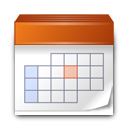
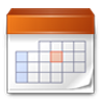
Busca Tabela Paciente

diff --git a/src/principal/AgendamentoGui.java b/src/principal/AgendamentoGui.java
@@ -9,6 +9,7 @@ package principal;
 import classes.Agendamento;
 import classes.DadoInvalidoException;
 import classes.Dentista;
+import classes.Paciente;
 import java.awt.Component;
 import java.awt.PopupMenu;
 import java.text.DateFormat;
@@ -19,6 +20,7 @@ import java.util.logging.Logger;
 import javax.swing.table.DefaultTableModel;
 import model.dao.AgendamentoDAO;
 import model.dao.DentistaDAO;
+import model.dao.PacienteDAO;
 
 
 /**
@@ -33,11 +35,28 @@ public class AgendamentoGui extends javax.swing.JFrame {
     public AgendamentoGui() throws DadoInvalidoException {
         initComponents();
         readDentista();
+        readPaciente();
     }
 
+    
+    public void readPaciente() throws DadoInvalidoException{
+        DefaultTableModel dtm = (DefaultTableModel) TabelaPaciente.getModel();
+        dtm.setNumRows(0);
+        PacienteDAO pdao = new PacienteDAO();
+        
+        for (Paciente p : pdao.read()) {
+            dtm.addRow(new Object[]{
+                p.getNome(),
+              });
+           
+        }
+        
+    }
+    
+    
     public void readDentista() throws DadoInvalidoException {
 
-        DefaultTableModel dtm = (DefaultTableModel) TabelaDentista.getModel();
+        DefaultTableModel dtm = (DefaultTableModel) TabelaDentista1.getModel();
         dtm.setNumRows(0);
         DentistaDAO ddao = new DentistaDAO();
         
@@ -49,6 +68,7 @@ public class AgendamentoGui extends javax.swing.JFrame {
         }
 
     }
+    
    
     
     
@@ -67,12 +87,15 @@ public class AgendamentoGui extends javax.swing.JFrame {
         txtHora = new javax.swing.JFormattedTextField();
         jLabel6 = new javax.swing.JLabel();
         jScrollPane2 = new javax.swing.JScrollPane();
-        TabelaDentista = new javax.swing.JTable();
+        TabelaPaciente = new javax.swing.JTable();
         jLabel7 = new javax.swing.JLabel();
         jLabel8 = new javax.swing.JLabel();
         txtEspecialidade = new javax.swing.JTextField();
         jButton1 = new javax.swing.JButton();
         jDateChooser1 = new com.toedter.calendar.JDateChooser();
+        jScrollPane3 = new javax.swing.JScrollPane();
+        TabelaDentista1 = new javax.swing.JTable();
+        jLabel9 = new javax.swing.JLabel();
 
         setDefaultCloseOperation(javax.swing.WindowConstants.DISPOSE_ON_CLOSE);
         setTitle("Agendamentos");
@@ -91,23 +114,23 @@ public class AgendamentoGui extends javax.swing.JFrame {
         jLabel3.setFont(new java.awt.Font("Tahoma", 1, 12)); // NOI18N
         jLabel3.setText("Dentista:");
         getContentPane().add(jLabel3);
-        jLabel3.setBounds(60, 170, 70, 20);
+        jLabel3.setBounds(50, 170, 70, 20);
 
         jLabel4.setFont(new java.awt.Font("Tahoma", 1, 12)); // NOI18N
         jLabel4.setText("Data:");
         getContentPane().add(jLabel4);
-        jLabel4.setBounds(160, 220, 50, 20);
+        jLabel4.setBounds(230, 230, 50, 20);
 
         jLabel5.setFont(new java.awt.Font("Tahoma", 1, 12)); // NOI18N
         jLabel5.setText("Hora:");
         getContentPane().add(jLabel5);
-        jLabel5.setBounds(400, 230, 50, 15);
+        jLabel5.setBounds(430, 230, 50, 15);
         getContentPane().add(txtNome);
         txtNome.setBounds(250, 60, 360, 30);
         getContentPane().add(txtProcedimento);
         txtProcedimento.setBounds(250, 110, 360, 30);
         getContentPane().add(txtDentista);
-        txtDentista.setBounds(130, 170, 360, 30);
+        txtDentista.setBounds(120, 160, 290, 30);
 
         try {
             txtHora.setFormatterFactory(new javax.swing.text.DefaultFormatterFactory(new javax.swing.text.MaskFormatter("##:##:##")));
@@ -115,55 +138,55 @@ public class AgendamentoGui extends javax.swing.JFrame {
             ex.printStackTrace();
         }
         getContentPane().add(txtHora);
-        txtHora.setBounds(450, 220, 110, 30);
+        txtHora.setBounds(470, 220, 110, 30);
 
         jLabel6.setFont(new java.awt.Font("Tahoma", 1, 18)); // NOI18N
         jLabel6.setText("Agendamento");
         getContentPane().add(jLabel6);
         jLabel6.setBounds(360, -10, 160, 60);
 
-        TabelaDentista.setModel(new javax.swing.table.DefaultTableModel(
+        TabelaPaciente.setModel(new javax.swing.table.DefaultTableModel(
             new Object [][] {
 
             },
             new String [] {
-                "Nome", "Especialidade"
+                "Pacientes"
             }
         ) {
             boolean[] canEdit = new boolean [] {
-                false, false
+                false
             };
 
             public boolean isCellEditable(int rowIndex, int columnIndex) {
                 return canEdit [columnIndex];
             }
         });
-        TabelaDentista.addMouseListener(new java.awt.event.MouseAdapter() {
+        TabelaPaciente.addMouseListener(new java.awt.event.MouseAdapter() {
             public void mouseClicked(java.awt.event.MouseEvent evt) {
-                TabelaDentistaMouseClicked(evt);
+                TabelaPacienteMouseClicked(evt);
             }
         });
-        TabelaDentista.addKeyListener(new java.awt.event.KeyAdapter() {
+        TabelaPaciente.addKeyListener(new java.awt.event.KeyAdapter() {
             public void keyReleased(java.awt.event.KeyEvent evt) {
-                TabelaDentistaKeyReleased(evt);
+                TabelaPacienteKeyReleased(evt);
             }
         });
-        jScrollPane2.setViewportView(TabelaDentista);
+        jScrollPane2.setViewportView(TabelaPaciente);
 
         getContentPane().add(jScrollPane2);
-        jScrollPane2.setBounds(0, 320, 850, 250);
+        jScrollPane2.setBounds(0, 320, 410, 250);
 
         jLabel7.setFont(new java.awt.Font("Tahoma", 1, 18)); // NOI18N
-        jLabel7.setText("Dentistas");
+        jLabel7.setText("Lista de Dentistas");
         getContentPane().add(jLabel7);
-        jLabel7.setBounds(380, 280, 100, 30);
+        jLabel7.setBounds(540, 280, 200, 30);
 
         jLabel8.setFont(new java.awt.Font("Tahoma", 1, 12)); // NOI18N
         jLabel8.setText("Especialidade:");
         getContentPane().add(jLabel8);
-        jLabel8.setBounds(520, 180, 100, 15);
+        jLabel8.setBounds(420, 170, 100, 15);
         getContentPane().add(txtEspecialidade);
-        txtEspecialidade.setBounds(610, 170, 230, 30);
+        txtEspecialidade.setBounds(520, 160, 300, 30);
 
         jButton1.setText("Cadastrar");
         jButton1.addActionListener(new java.awt.event.ActionListener() {
@@ -174,22 +197,59 @@ public class AgendamentoGui extends javax.swing.JFrame {
         getContentPane().add(jButton1);
         jButton1.setBounds(380, 590, 90, 23);
         getContentPane().add(jDateChooser1);
-        jDateChooser1.setBounds(207, 220, 120, 30);
+        jDateChooser1.setBounds(270, 220, 120, 30);
+
+        TabelaDentista1.setModel(new javax.swing.table.DefaultTableModel(
+            new Object [][] {
+
+            },
+            new String [] {
+                "Dentista", "Especialidade"
+            }
+        ) {
+            boolean[] canEdit = new boolean [] {
+                false, false
+            };
+
+            public boolean isCellEditable(int rowIndex, int columnIndex) {
+                return canEdit [columnIndex];
+            }
+        });
+        TabelaDentista1.addMouseListener(new java.awt.event.MouseAdapter() {
+            public void mouseClicked(java.awt.event.MouseEvent evt) {
+                TabelaDentista1MouseClicked(evt);
+            }
+        });
+        TabelaDentista1.addKeyListener(new java.awt.event.KeyAdapter() {
+            public void keyReleased(java.awt.event.KeyEvent evt) {
+                TabelaDentista1KeyReleased(evt);
+            }
+        });
+        jScrollPane3.setViewportView(TabelaDentista1);
+        if (TabelaDentista1.getColumnModel().getColumnCount() > 0) {
+            TabelaDentista1.getColumnModel().getColumn(1).setResizable(false);
+        }
+
+        getContentPane().add(jScrollPane3);
+        jScrollPane3.setBounds(420, 320, 430, 250);
+
+        jLabel9.setFont(new java.awt.Font("Tahoma", 1, 18)); // NOI18N
+        jLabel9.setText("Lista de Pacientes");
+        getContentPane().add(jLabel9);
+        jLabel9.setBounds(130, 280, 190, 30);
 
         pack();
     }// </editor-fold>//GEN-END:initComponents
 
-    private void TabelaDentistaMouseClicked(java.awt.event.MouseEvent evt) {//GEN-FIRST:event_TabelaDentistaMouseClicked
-        int linha = TabelaDentista.getSelectedRow();
-        txtDentista.setText(TabelaDentista.getValueAt(linha, 0).toString());
-        txtEspecialidade.setText(TabelaDentista.getValueAt(linha, 1).toString());
-    }//GEN-LAST:event_TabelaDentistaMouseClicked
+    private void TabelaPacienteMouseClicked(java.awt.event.MouseEvent evt) {//GEN-FIRST:event_TabelaPacienteMouseClicked
+        int linha = TabelaPaciente.getSelectedRow();
+        txtNome.setText(TabelaPaciente.getValueAt(linha, 0).toString());
+    }//GEN-LAST:event_TabelaPacienteMouseClicked
 
-    private void TabelaDentistaKeyReleased(java.awt.event.KeyEvent evt) {//GEN-FIRST:event_TabelaDentistaKeyReleased
-        int linha = TabelaDentista.getSelectedRow();
-        txtDentista.setText(TabelaDentista.getValueAt(linha, 0).toString());
-        txtEspecialidade.setText(TabelaDentista.getValueAt(linha, 1).toString());
-    }//GEN-LAST:event_TabelaDentistaKeyReleased
+    private void TabelaPacienteKeyReleased(java.awt.event.KeyEvent evt) {//GEN-FIRST:event_TabelaPacienteKeyReleased
+        int linha = TabelaPaciente.getSelectedRow();
+        txtNome.setText(TabelaPaciente.getValueAt(linha, 0).toString());
+    }//GEN-LAST:event_TabelaPacienteKeyReleased
 
     private void jButton1ActionPerformed(java.awt.event.ActionEvent evt) {//GEN-FIRST:event_jButton1ActionPerformed
        DateFormat fmt = new SimpleDateFormat("dd/MM/yyyy");
@@ -207,6 +267,18 @@ public class AgendamentoGui extends javax.swing.JFrame {
        ad.create(a);
     }//GEN-LAST:event_jButton1ActionPerformed
 
+    private void TabelaDentista1MouseClicked(java.awt.event.MouseEvent evt) {//GEN-FIRST:event_TabelaDentista1MouseClicked
+        int linha = TabelaDentista1.getSelectedRow();
+        txtDentista.setText(TabelaDentista1.getValueAt(linha, 0).toString());
+        txtEspecialidade.setText(TabelaDentista1.getValueAt(linha, 1).toString());
+    }//GEN-LAST:event_TabelaDentista1MouseClicked
+
+    private void TabelaDentista1KeyReleased(java.awt.event.KeyEvent evt) {//GEN-FIRST:event_TabelaDentista1KeyReleased
+        int linha = TabelaDentista1.getSelectedRow();
+        txtDentista.setText(TabelaDentista1.getValueAt(linha, 0).toString());
+        txtEspecialidade.setText(TabelaDentista1.getValueAt(linha, 1).toString());
+    }//GEN-LAST:event_TabelaDentista1KeyReleased
+
     /**
      * @param args the command line arguments
      */
@@ -214,7 +286,8 @@ public class AgendamentoGui extends javax.swing.JFrame {
     
 
     // Variables declaration - do not modify//GEN-BEGIN:variables
-    private javax.swing.JTable TabelaDentista;
+    private javax.swing.JTable TabelaDentista1;
+    private javax.swing.JTable TabelaPaciente;
     private javax.swing.JButton jButton1;
     private com.toedter.calendar.JDateChooser jDateChooser1;
     private javax.swing.JLabel jLabel1;
@@ -225,7 +298,9 @@ public class AgendamentoGui extends javax.swing.JFrame {
     private javax.swing.JLabel jLabel6;
     private javax.swing.JLabel jLabel7;
     private javax.swing.JLabel jLabel8;
+    private javax.swing.JLabel jLabel9;
     private javax.swing.JScrollPane jScrollPane2;
+    private javax.swing.JScrollPane jScrollPane3;
     private javax.swing.JTextField txtDentista;
     private javax.swing.JTextField txtEspecialidade;
     private javax.swing.JFormattedTextField txtHora;

diff --git a/src/principal/Principal.java b/src/principal/Principal.java
@@ -172,6 +172,7 @@ public class Principal extends javax.swing.JFrame {
         jPanel1.add(jLabel5);
         jLabel5.setBounds(830, 140, 110, 15);
 
+        jButton1.setIcon(new javax.swing.ImageIcon(getClass().getResource("/imagens/1464252490_schedule.png"))); // NOI18N
         jButton1.addActionListener(new java.awt.event.ActionListener() {
             public void actionPerformed(java.awt.event.ActionEvent evt) {
                 jButton1ActionPerformed(evt);
